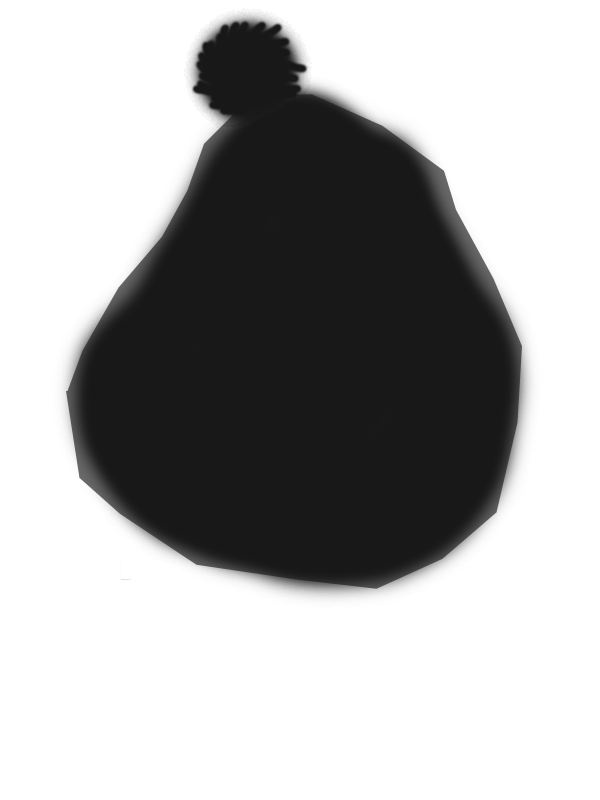
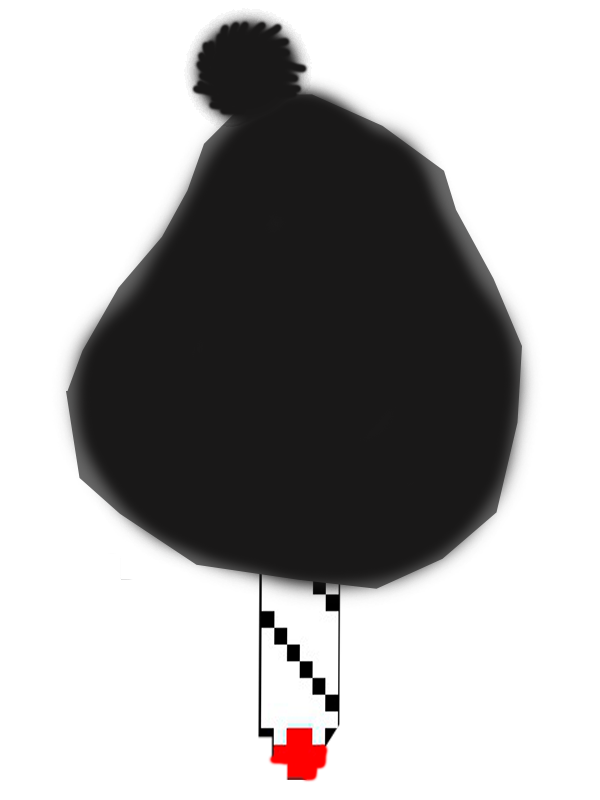
dealer move

Changed region(s): [[0.42, 0.7188, 0.57, 1.0]]

diff --git a/core/src/org/academiadecodigo/client/characters/Dealer.java b/core/src/org/academiadecodigo/client/characters/Dealer.java
@@ -16,17 +16,19 @@ public class Dealer extends Character{
 
     private int speed;
     private volatile boolean stopMovement = false;
-
+    private int rotation = 0;
     public Dealer() {
 
         super(new Sprite(new Texture(Gdx.files.internal("gorro.png"))));
         speed = 2;
         initialPositioning();
+
     }
 
     private void initialPositioning() {
 
         getSprite().setPosition( 500 - 25 , Gdx.graphics.getHeight() );
+
     }
 
     @Override
@@ -44,10 +46,13 @@ public class Dealer extends Character{
             return;
         }
 
-        if(getSprite().getY() > Gdx.graphics.getHeight() || getSprite().getY()+getSprite().getHeight() < 0) {
+        if(getSprite().getY() > Gdx.graphics.getHeight() || getSprite().getY()  < 0) {
 
             speed = speed * -1;
             stopMovement = true;
+
+            rotation = 180;
+            getSprite().setRotation(rotation);
 
             new Timer().schedule(new TimerTask() {
 
@@ -56,9 +61,13 @@ public class Dealer extends Character{
 
                     stopMovement = false;
                 }
-            }, 2000);
+            }, 10000);
 
         }
+        if(speed > 0){
+            rotation = 0;
+        }
+        getSprite().setRotation(rotation);
 
     }
 
